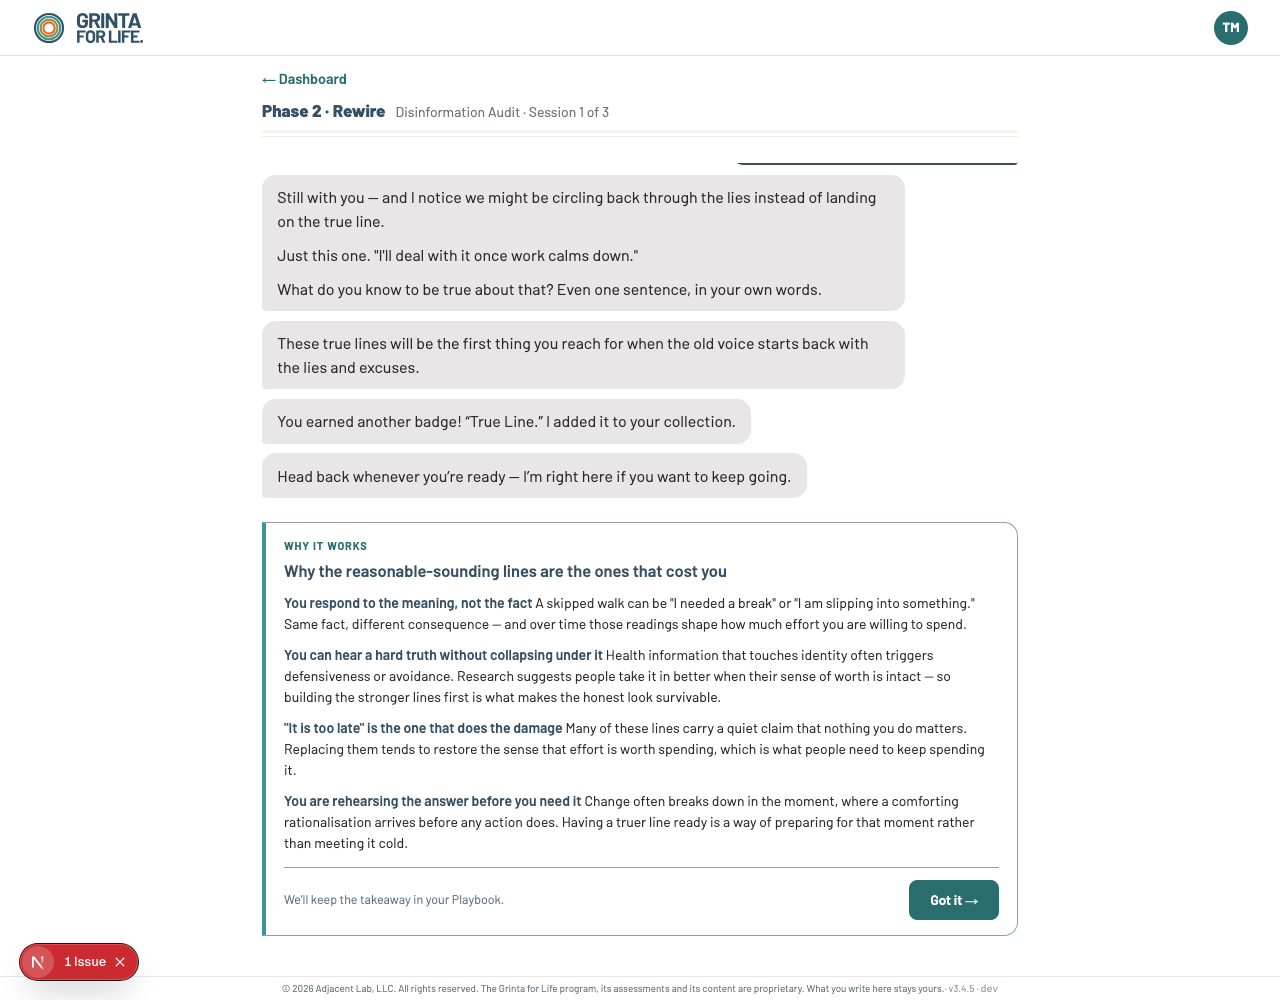
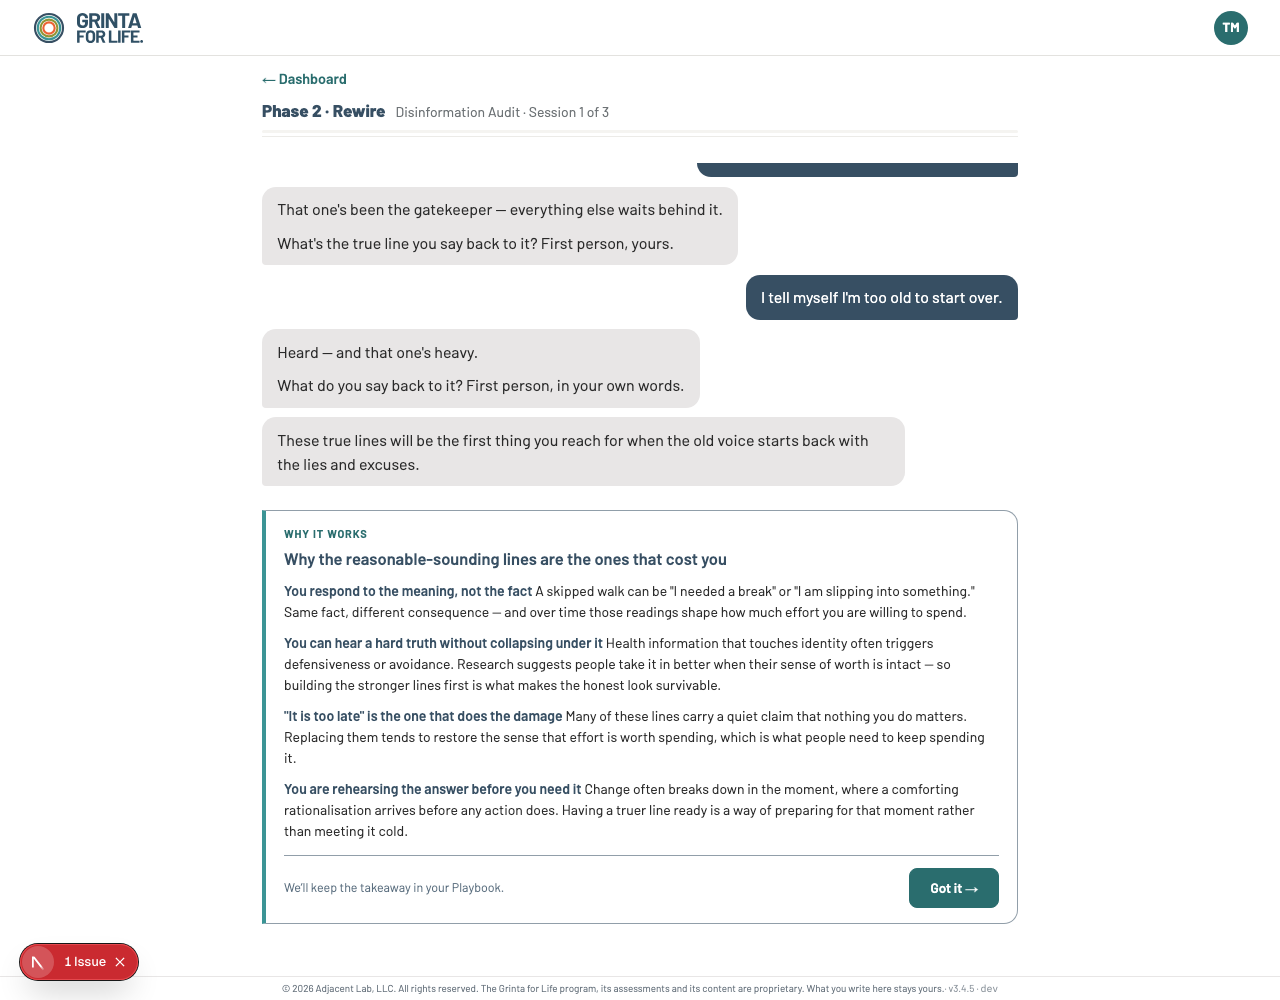
Option 1: the goodbye lands after the science — and the first fix was wrong
Jay's call: pure reorder, no copy change. The Companion's parting line now
lands AFTER the Why-it-works card instead of before it.

MY FIRST FIX DIDN'T WORK, AND THE TEST SAID IT DID. I appended the goodbye to
 on acknowledgment — but the card renders after every message, so a
bubble added later still paints ABOVE it. The assertion passed because it
COUNTED the bubble (0 before, 1 after) instead of checking where it sat.
Existence was never the question; order was. Caught it by looking at the
screenshot while the walk was green.

Now: the parting line is a sibling rendered below the card, and the assertion
uses compareDocumentPosition. A session that teaches nothing keeps the line at
completion, so a checkpoint still gets its goodbye.

Also extended /dev/reset-session beyond Reclaim — it hardcoded reclaim:/RCL-,
so the walk couldn't reset W1 and its second run silently met an already-closed
session, checking something different from its first. Arc key and curriculum id
are now DERIVED from the session prefix rather than assumed.

20 assertions, repeatable from a clean W1.

Changed region(s): [[0.1875, 0.155, 0.8125, 0.93], [0.6875, 0.868, 0.7812, 0.93]]

diff --git a/app/rewire/rewire-chat.tsx b/app/rewire/rewire-chat.tsx
@@ -45,7 +45,8 @@ export default function RewireChat({ memberId, session = 'w1' }: { memberId: str
   // NOTE the initial value: a session with nothing to teach starts ALREADY taught. Defaulting to false would gate
   // the hand-home behind a card that never renders — the checkpoint has no Understand beat, so onAcknowledge would
   // never fire and the member would sit at a finished session with no way out. A gate whose key is not issued.
-  const [taught, setTaught] = useState(() => !teachingFor(sessionKey).understand);
+  const teaches = !!teachingFor(sessionKey).understand;
+  const [taught, setTaught] = useState(() => !teaches);
   const started = useRef(false);
   const chatRef = useChatAutoscroll([messages.length, pending, expects, done]);
 
@@ -92,7 +93,14 @@ export default function RewireChat({ memberId, session = 'w1' }: { memberId: str
       // W-21 — hand the member home in the companion's voice, then show the Continue → CTA (no more dead-end).
       // Badge acknowledgment (Jay's call): if this session just earned a milestone, the Companion names it at the close.
       const badgeBeat = r.earnedBadge ? [{ role: 'agent' as const, text: `You earned another badge! “${r.earnedBadge.name}.” I added it to your collection.` }] : [];
-      setMessages((m) => [...m, ...agentBubbles(r.reply!), ...badgeBeat, { role: 'agent', text: REWIRE_HAND_HOME }]);
+      // THE GOODBYE NOW LANDS AFTER THE SCIENCE, not before it (Jay, 2026-08-17 — option 1, a pure reorder; no
+      // copy changed). The walk's first screenshot showed the Companion saying "head back whenever you're ready"
+      // and THEN the Why-it-works card appearing, which read as an afterthought bolted on after the farewell. The
+      // spec has the Companion turning TOWARD the science at the close, so the parting line is now appended when
+      // the member acknowledges. A session with nothing to teach has no acknowledgment to wait for, so it keeps
+      // the line here — otherwise the goodbye would never arrive on a checkpoint.
+      const handHome = teaches ? [] : [{ role: 'agent' as const, text: REWIRE_HAND_HOME }];
+      setMessages((m) => [...m, ...agentBubbles(r.reply!), ...badgeBeat, ...handHome]);
       setDone(true); // session done — the keeper(s) are in the Playbook
       // The end card is NOT raised here. It used to fire on this same tick, so it landed on top of the Companion's
       // close, the badge beat and the hand-home before any of them could be read — the receipt arriving before the
@@ -135,6 +143,11 @@ export default function RewireChat({ memberId, session = 'w1' }: { memberId: str
             ("before we close, here's why what you just did holds up"); the card carries the science so no chat
             bubble has to recite it, which is what keeps the Companion inside Greg's evocative posture. */}
         {done && <TeachingUnderstand sessionKey={sessionKey} onAcknowledge={() => setTaught(true)} />}
+        {/* The parting line, rendered AFTER the card rather than pushed into `messages`. Appending it to the thread
+            put it back ABOVE the science — the card renders after every message, so a bubble added later still
+            paints higher. The first version of this passed its test anyway, because the test counted the bubble
+            instead of checking where it sat. Order is the whole point here, so it is now a sibling below the card. */}
+        {done && taught && teaches && <div className="bubble agent">{REWIRE_HAND_HOME}</div>}
       </div>
       {error && <p className="error">{error}</p>}
       {!done && (

diff --git a/scripts/teaching-layer-walk.ts b/scripts/teaching-layer-walk.ts
@@ -61,6 +61,12 @@ async function main(): Promise<void> {
   if (!memberId) { bad('could not resolve the member id'); await browser.close(); return finish(); }
   ok('logged in as the demo member');
 
+  // Reset W1 so the walk is REPEATABLE. Without this the second run meets an already-closed session and silently
+  // checks something different from the first — the kind of drift that makes a green walk stop meaning anything.
+  const reset = await page.request.post(`${base}/dev/reset-session?session=w1`);
+  if (reset.ok()) ok('reset W1 to a clean start');
+  else bad(`could not reset W1 (${reset.status()}) — the run may not be comparable`);
+
   // W1 — the Disinformation Audit. The mockups' worked example, and a 1:1 asset session (not a gate).
   await page.goto(`${base}/workspace/${memberId}/w1`, { waitUntil: 'domcontentloaded' });
   const frame = page.locator('.teach-frame');
@@ -168,11 +174,34 @@ async function main(): Promise<void> {
   await page.screenshot({ path: 'docs/screenshots/teaching-understand-w1.png', fullPage: false });
   ok('screenshot → docs/screenshots/teaching-understand-w1.png');
 
+  // THE GOODBYE MUST NOT PRECEDE THE SCIENCE (Jay, 2026-08-17, option 1). Before the fix the Companion said
+  // "head back whenever you're ready" and the card appeared after it, reading as an afterthought.
+  const goodbyeBefore = await page.locator('.bubble.agent', { hasText: 'Head back whenever' }).count();
+  if (goodbyeBefore === 0) ok('the goodbye has NOT been said yet — the science comes first');
+  else bad('the Companion said goodbye before the science — the card reads as an afterthought');
+
   await page.locator('.teach-understand .teach-cta').click();
-  await page.waitForTimeout(400);
+  await page.waitForTimeout(500);
   const continueAfter = await page.locator('.chat-continue button').count();
   if (continueAfter === 1) ok('"Got it →" releases the hand-home');
   else bad('after acknowledging, Continue → still did not appear — the member is stranded');
+
+  // ORDER, NOT EXISTENCE. The first version of this counted the bubble and passed while the goodbye still painted
+  // ABOVE the card — appending it to `messages` could never move it below, because the card renders after every
+  // message. Counting proved it existed, which was never the question. compareDocumentPosition is.
+  const order = await page.evaluate(() => {
+    const card = document.querySelector('.teach-understand');
+    const bubbles = Array.from(document.querySelectorAll('.bubble.agent'));
+    const bye = bubbles.find((b) => (b.textContent ?? '').includes('Head back whenever'));
+    if (!card || !bye) return null;
+    // Node.DOCUMENT_POSITION_FOLLOWING === 4 → `bye` comes after `card` in document order.
+    return { after: !!(card.compareDocumentPosition(bye) & 4) };
+  });
+  if (order?.after) ok('the goodbye sits BELOW the card in the DOM — genuinely last');
+  else bad(`the goodbye is not below the card (${JSON.stringify(order)}) — it still reads before the science`);
+
+  await page.screenshot({ path: 'docs/screenshots/teaching-close-w1.png', fullPage: false });
+  ok('screenshot → docs/screenshots/teaching-close-w1.png');
 
   await browser.close();
   finish();

diff --git a/app/dev/reset-session/route.ts b/app/dev/reset-session/route.ts
@@ -25,7 +25,27 @@ import type { Db } from '../../../lib/db/schema.ts';
 // It clears working state (the in-flight arc session, this cycle's audit reading, the session-progress row). It
 // never deletes a member, credentials, or anything belonging to someone else.
 
-const CLEARABLE = new Set(['c1', 'c2', 'c3', 'c4']);
+// EXTENDED 2026-08-17 beyond Reclaim. This route was Reclaim-only — it hardcoded `reclaim:${session}` and
+// `RCL-${SESSION}` — so the teaching-layer walk could not reset W1 and its second run silently met an
+// already-closed session, checking something different from its first. A walk that is not repeatable stops
+// meaning anything, quietly. The arc and the curriculum id are now DERIVED from the session prefix rather than
+// assumed, so adding a session here cannot drift from how the app actually stores it:
+//   arc_session.arc      = `${arc}:${session}`      (lib/agent/arc-session.ts storageKey)
+//   session_progress.id  = `${PREFIX}-${SESSION}`   (lib/curriculum/registry.ts — RWR-W1 · RBD-B1 · RCL-C1)
+const ARCS = {
+  w: { arc: 'rewire', prefix: 'RWR' },
+  b: { arc: 'rebuild', prefix: 'RBD' },
+  c: { arc: 'reclaim', prefix: 'RCL' },
+} as const;
+
+const CLEARABLE = new Set(['w1', 'w2', 'w3', 'b1', 'b2', 'b3', 'c1', 'c2', 'c3', 'c4']);
+
+/** The storage names for a clearable session. Returns null for anything not in CLEARABLE. */
+function namesFor(session: string): { arcKey: string; progressId: string } | null {
+  const entry = ARCS[session[0] as keyof typeof ARCS];
+  if (!entry || !CLEARABLE.has(session)) return null;
+  return { arcKey: `${entry.arc}:${session}`, progressId: `${entry.prefix}-${session.toUpperCase()}` };
+}
 
 export async function POST(req: Request): Promise<NextResponse> {
   assertDevOnly();
@@ -51,10 +71,11 @@ export async function POST(req: Request): Promise<NextResponse> {
     return NextResponse.json({ ok: false, error: 'refusing: not a demo (.test) account' }, { status: 403 });
   }
 
-  await db.query('delete from arc_session where member_id = $1 and arc = $2', [memberId, `reclaim:${session}`]);
+  const names = namesFor(session)!; // CLEARABLE was checked above, so this cannot be null
+  await db.query('delete from arc_session where member_id = $1 and arc = $2', [memberId, names.arcKey]);
   await db.query('delete from session_progress where member_id = $1 and session_id = $2', [
     memberId,
-    `RCL-${session.toUpperCase()}`,
+    names.progressId,
   ]);
   // C2's durable register, so the walk starts from no reading rather than appending a second sequence.
   if (session === 'c2') await db.query('delete from bigger_world_reading where member_id = $1', [memberId]);
